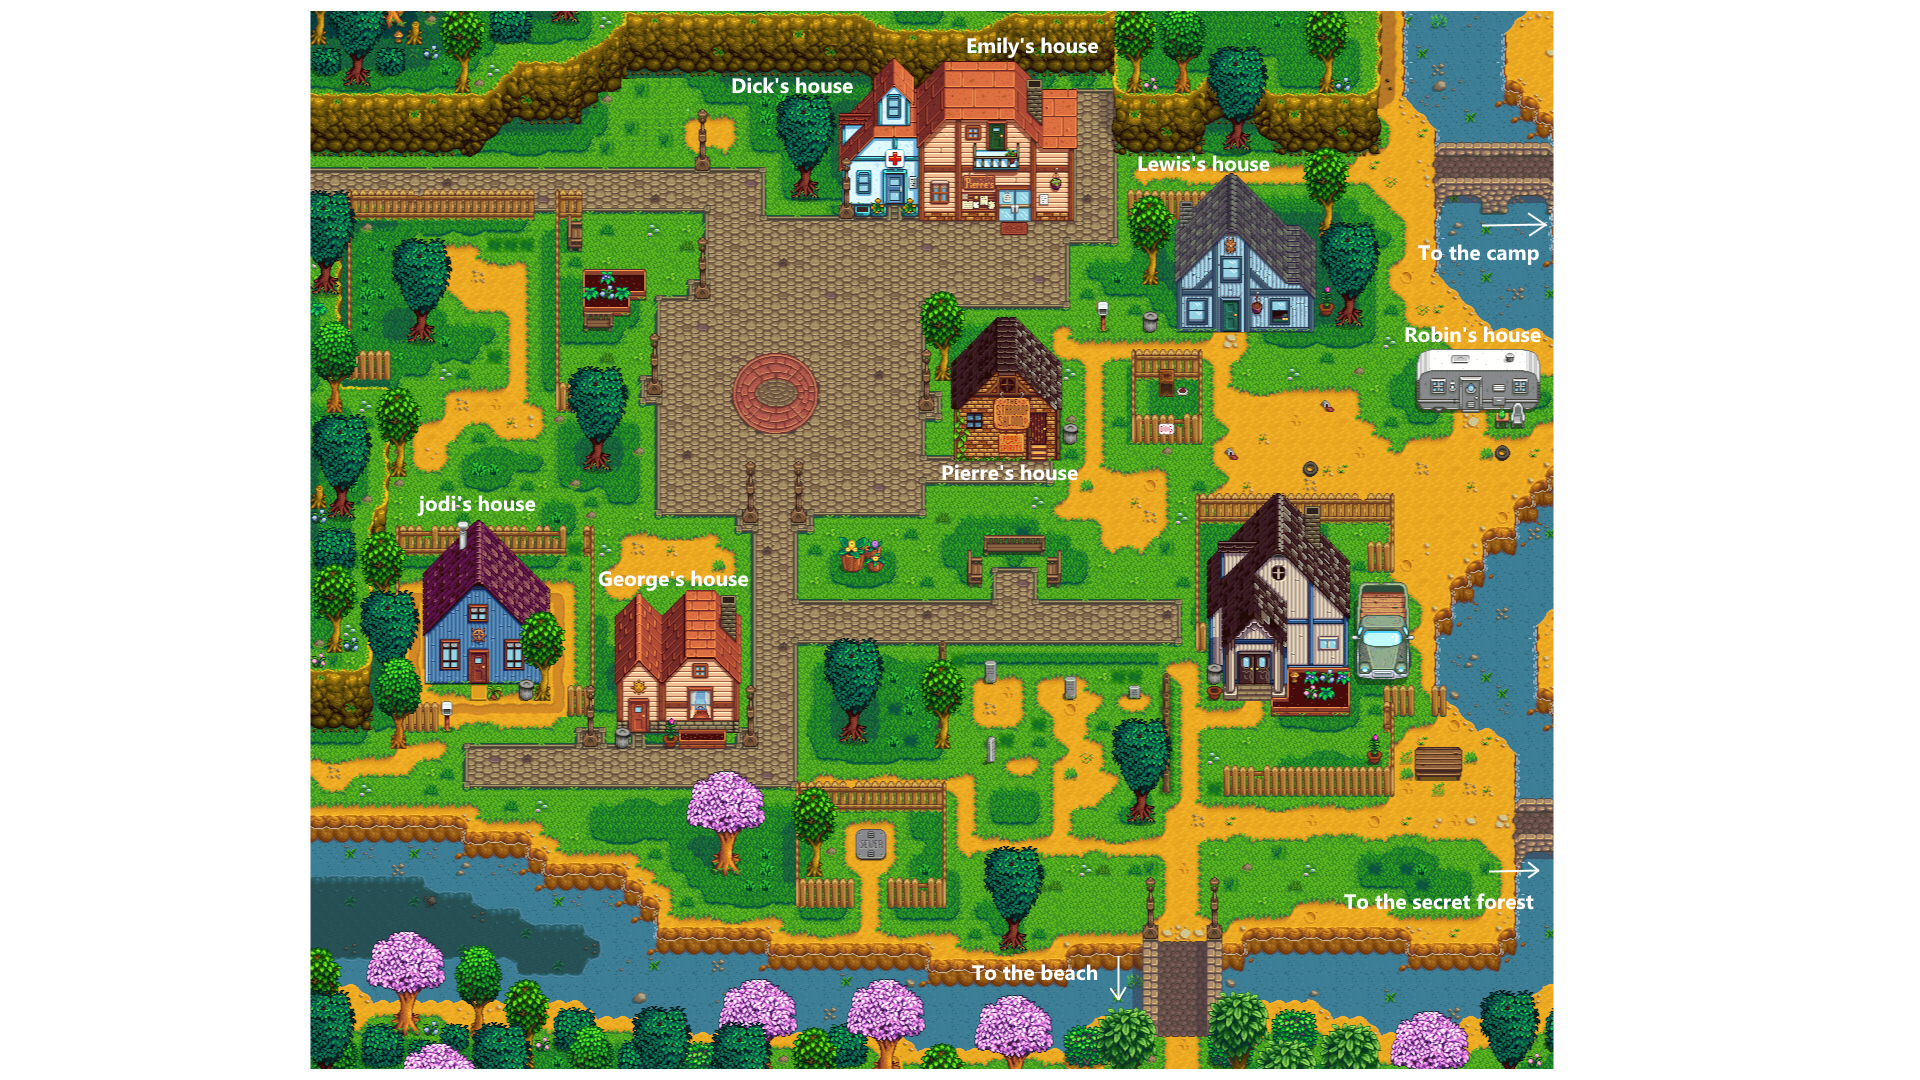
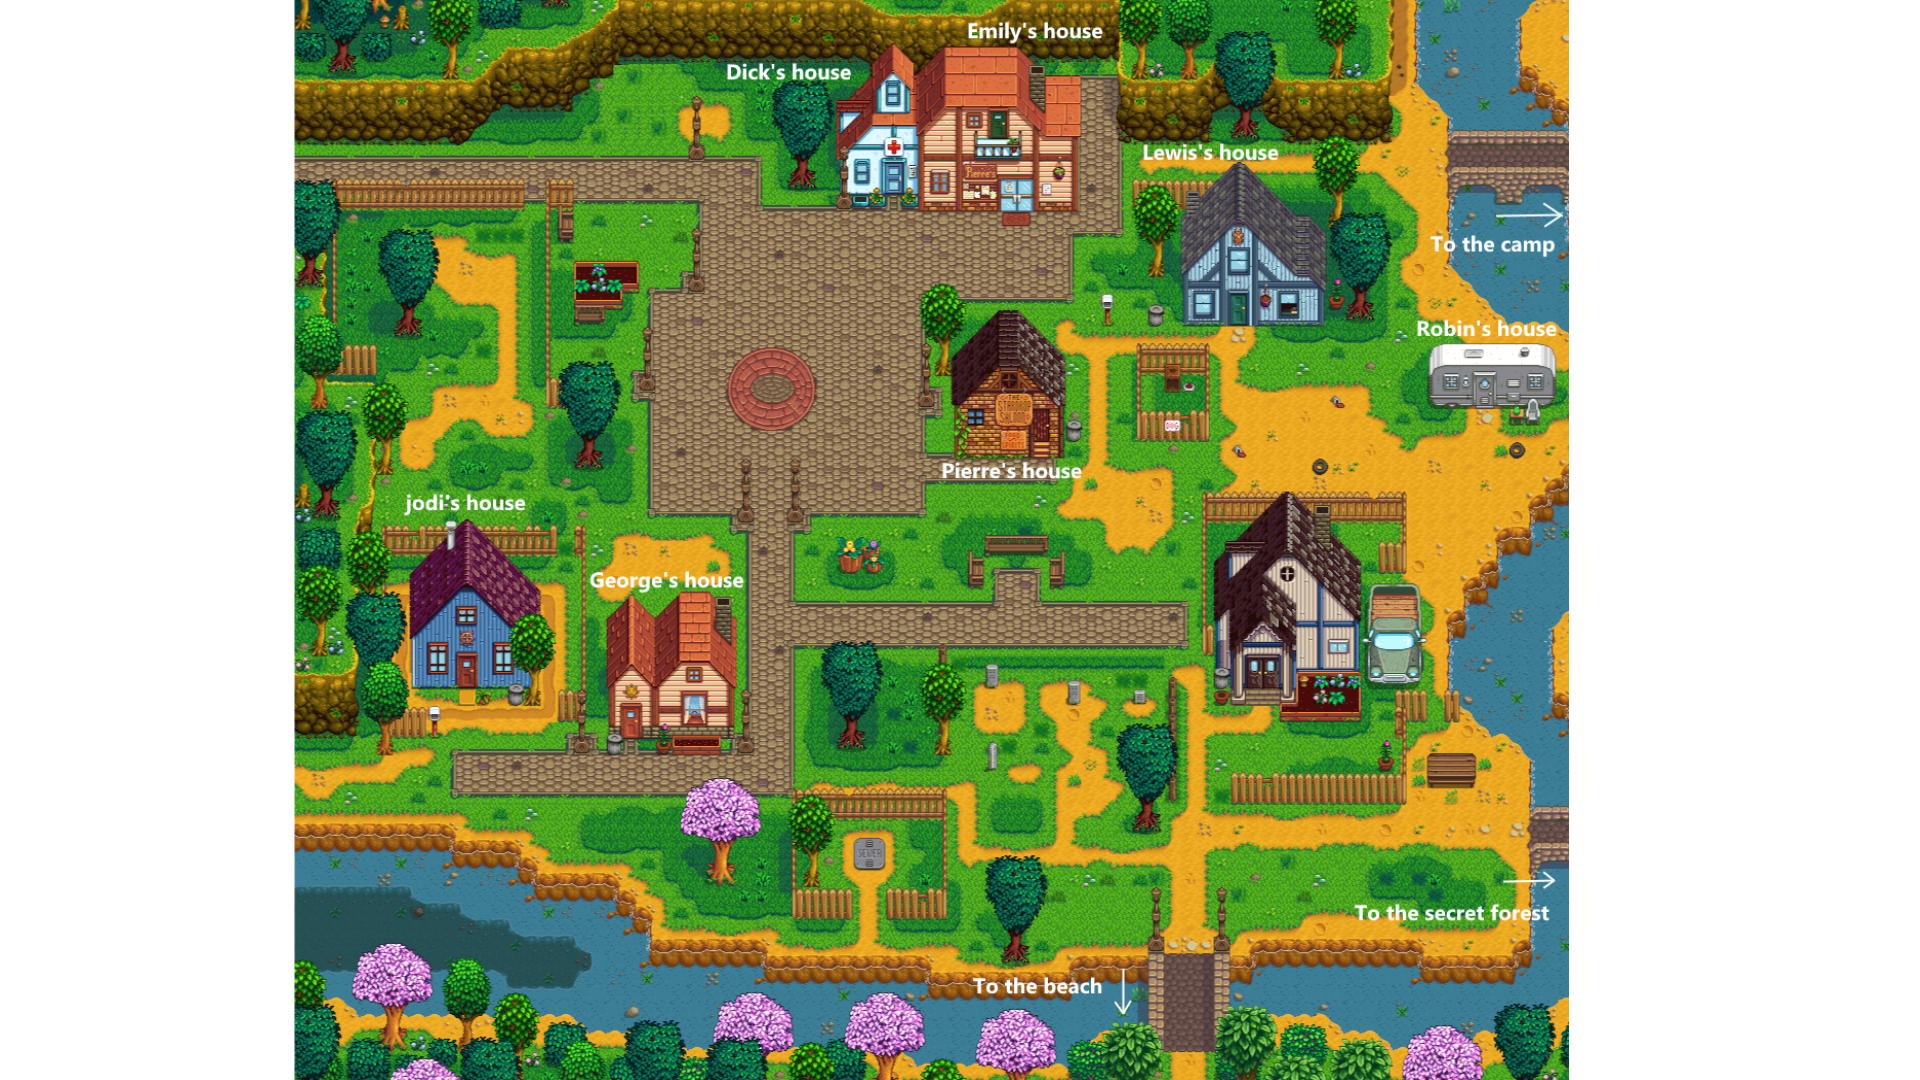
[*] push new minimap

diff --git a/src/set_scale.c b/src/set_scale.c
@@ -15,28 +15,57 @@ void set_scale_npc(game_object_t *objs)
         sfSprite_setScale(objs[tmp].sprite, (sfVector2f) {4, 4});
 }
 
-void set_scale2(game_t *game)
+void set_scale4(game_t *game)
 {
-    if (game->settings->current == BEACH) {
-        for (int tmp = SKELETON1_O_S4; tmp <= SKELETON20_O_S4; tmp++) {
-            sfSprite_setScale(game->scenes[BEACH].objs[tmp].sprite,
-            (sfVector2f) {3.5, 3.5});
-        }
-    }
-    if (game->settings->current == CAMP) {
-        for (int tmp = GOLEM1_O_S5; tmp <= GOLEM10_O_S5; tmp++) {
-            sfSprite_setScale(game->scenes[CAMP].objs[tmp].sprite,
-            (sfVector2f) {3.5, 3.5});
-        }
-    }
     if (game->settings->current == FOREST) {
         sfSprite_setScale(game->scenes[FOREST].objs[TOWN_O_S2].sprite,
         (sfVector2f) {1.5, 1.5});
         for (int tmp = GHOST1_O_S3; tmp <= GHOST15_O_S3; tmp++) {
             sfSprite_setScale(game->scenes[FOREST].objs[tmp].sprite,
             (sfVector2f) {3.5, 3.5});
+            sfSprite_setScale(game->scenes[FOREST].objs[MINIMAP_O_S3].sprite,
+            (sfVector2f) {0.8, 0.8});
         }
     }
+}
+
+void set_scale3(game_t *game)
+{
+    if (game->settings->current == TOWN)
+        sfSprite_setScale(game->scenes[TOWN].objs[MINIMAP_O_S1].sprite,
+        (sfVector2f) {0.8, 0.8});
+    if (game->settings->current == BOSS) {
+        sfSprite_setScale(game->scenes[BOSS].objs[TOWN_O_S2].sprite,
+        (sfVector2f) {3.5, 3.5});
+        sfSprite_setScale(game->scenes[BOSS].objs[OBSTACLE_O_S2].sprite,
+        (sfVector2f) {3.5, 3.5});
+        sfSprite_setScale(game->scenes[BOSS].objs[SHAMAN_O_S2].sprite,
+        (sfVector2f) {7, 7});
+        sfSprite_setScale(game->scenes[BOSS].objs[MINIMAP_O_S2].sprite,
+        (sfVector2f) {0.8, 0.8});
+    }
+    set_scale4(game);
+}
+
+void set_scale2(game_t *game)
+{
+    if (game->settings->current == BEACH) {
+        for (int tmp = SKELETON1_O_S4; tmp <= SKELETON20_O_S4; tmp++) {
+            sfSprite_setScale(game->scenes[BEACH].objs[tmp].sprite,
+            (sfVector2f) {3.5, 3.5});
+            sfSprite_setScale(game->scenes[BEACH].objs[MINIMAP_O_S4].sprite,
+            (sfVector2f) {0.8, 0.8});
+        }
+    }
+    if (game->settings->current == CAMP) {
+        for (int tmp = GOLEM1_O_S5; tmp <= GOLEM10_O_S5; tmp++) {
+            sfSprite_setScale(game->scenes[CAMP].objs[tmp].sprite,
+            (sfVector2f) {3.5, 3.5});
+            sfSprite_setScale(game->scenes[CAMP].objs[MINIMAP_O_S5].sprite,
+        (sfVector2f) {0.8, 0.8});
+        }
+    }
+    set_scale3(game);
 }
 
 void set_scale(game_t *game)
@@ -50,14 +79,6 @@ void set_scale(game_t *game)
         sfSprite_setScale(game->scenes[TOWN].objs[PANNEL_O_S1].sprite,
         (sfVector2f) {1, 0.5});
         set_scale_npc(game->scenes[TOWN].objs);
-    }
-    if (game->settings->current == BOSS) {
-        sfSprite_setScale(game->scenes[BOSS].objs[TOWN_O_S2].sprite,
-        (sfVector2f) {3.5, 3.5});
-        sfSprite_setScale(game->scenes[BOSS].objs[OBSTACLE_O_S2].sprite,
-        (sfVector2f) {3.5, 3.5});
-        sfSprite_setScale(game->scenes[BOSS].objs[SHAMAN_O_S2].sprite,
-        (sfVector2f) {7, 7});
     }
     set_scale2(game);
 }

diff --git a/src/new_content/new_content.c b/src/new_content/new_content.c
@@ -8,22 +8,6 @@
 #include "rpg.h"
 #include "struct.h"
 
-game_text_t new_text(const char *path_to_font, const char *towrite,
-sfVector2f pos, int size)
-{
-    game_text_t text;
-
-    text.text = sfText_create();
-    text.font = sfFont_createFromFile(path_to_font);
-    text.state = -1;
-    text.position = pos;
-    sfText_setPosition(text.text, pos);
-    sfText_setString(text.text, towrite);
-    sfText_setFont(text.text, text.font);
-    sfText_setCharacterSize(text.text, size);
-    return (text);
-}
-
 game_button_t new_button(const char *path_to_img,
     sfVector2f pos, sfIntRect rect, int state)
 {

diff --git a/src/new_content/new_text.c b/src/new_content/new_text.c
@@ -1,0 +1,25 @@
+/*
+** EPITECH PROJECT, 2019
+** MUL_my_rpg_2018
+** File description:
+** new_text
+*/
+
+#include "rpg.h"
+#include "struct.h"
+
+game_text_t new_text(const char *path_to_font, const char *towrite,
+sfVector2f pos, int size)
+{
+    game_text_t text;
+
+    text.text = sfText_create();
+    text.font = sfFont_createFromFile(path_to_font);
+    text.state = -1;
+    text.position = pos;
+    sfText_setPosition(text.text, pos);
+    sfText_setString(text.text, towrite);
+    sfText_setFont(text.text, text.font);
+    sfText_setCharacterSize(text.text, size);
+    return (text);
+}

diff --git a/src/fill_scene/fill_scene_town2.c b/src/fill_scene/fill_scene_town2.c
@@ -17,7 +17,7 @@ void fill_scene_town6_1(game_scene_t town)
     town.objs[GEORGE_O_S1] = new_object("assets/images/george.png",
     (sfVector2f) {320 * 3.5, 710 * 3.5}, (sfIntRect) {0, 0, 16, 32}, 0);
     town.objs[MINIMAP_O_S1] = new_object("assets/images/minimap.png",
-    (sfVector2f) {490, 200}, (sfIntRect) {0, 0, 1920, 1080}, -1);
+    (sfVector2f) {140, 70}, (sfIntRect) {0, 0, 1920, 1080}, -1);
     town.objs[QUEST_O_S1] = new_object("assets/images/quest.png",
     (sfVector2f) {550, 235}, (sfIntRect) {0, 0, 848, 584}, -1);
     town.objs[LIFE_O_S1] = new_object("assets/images/life.png",
